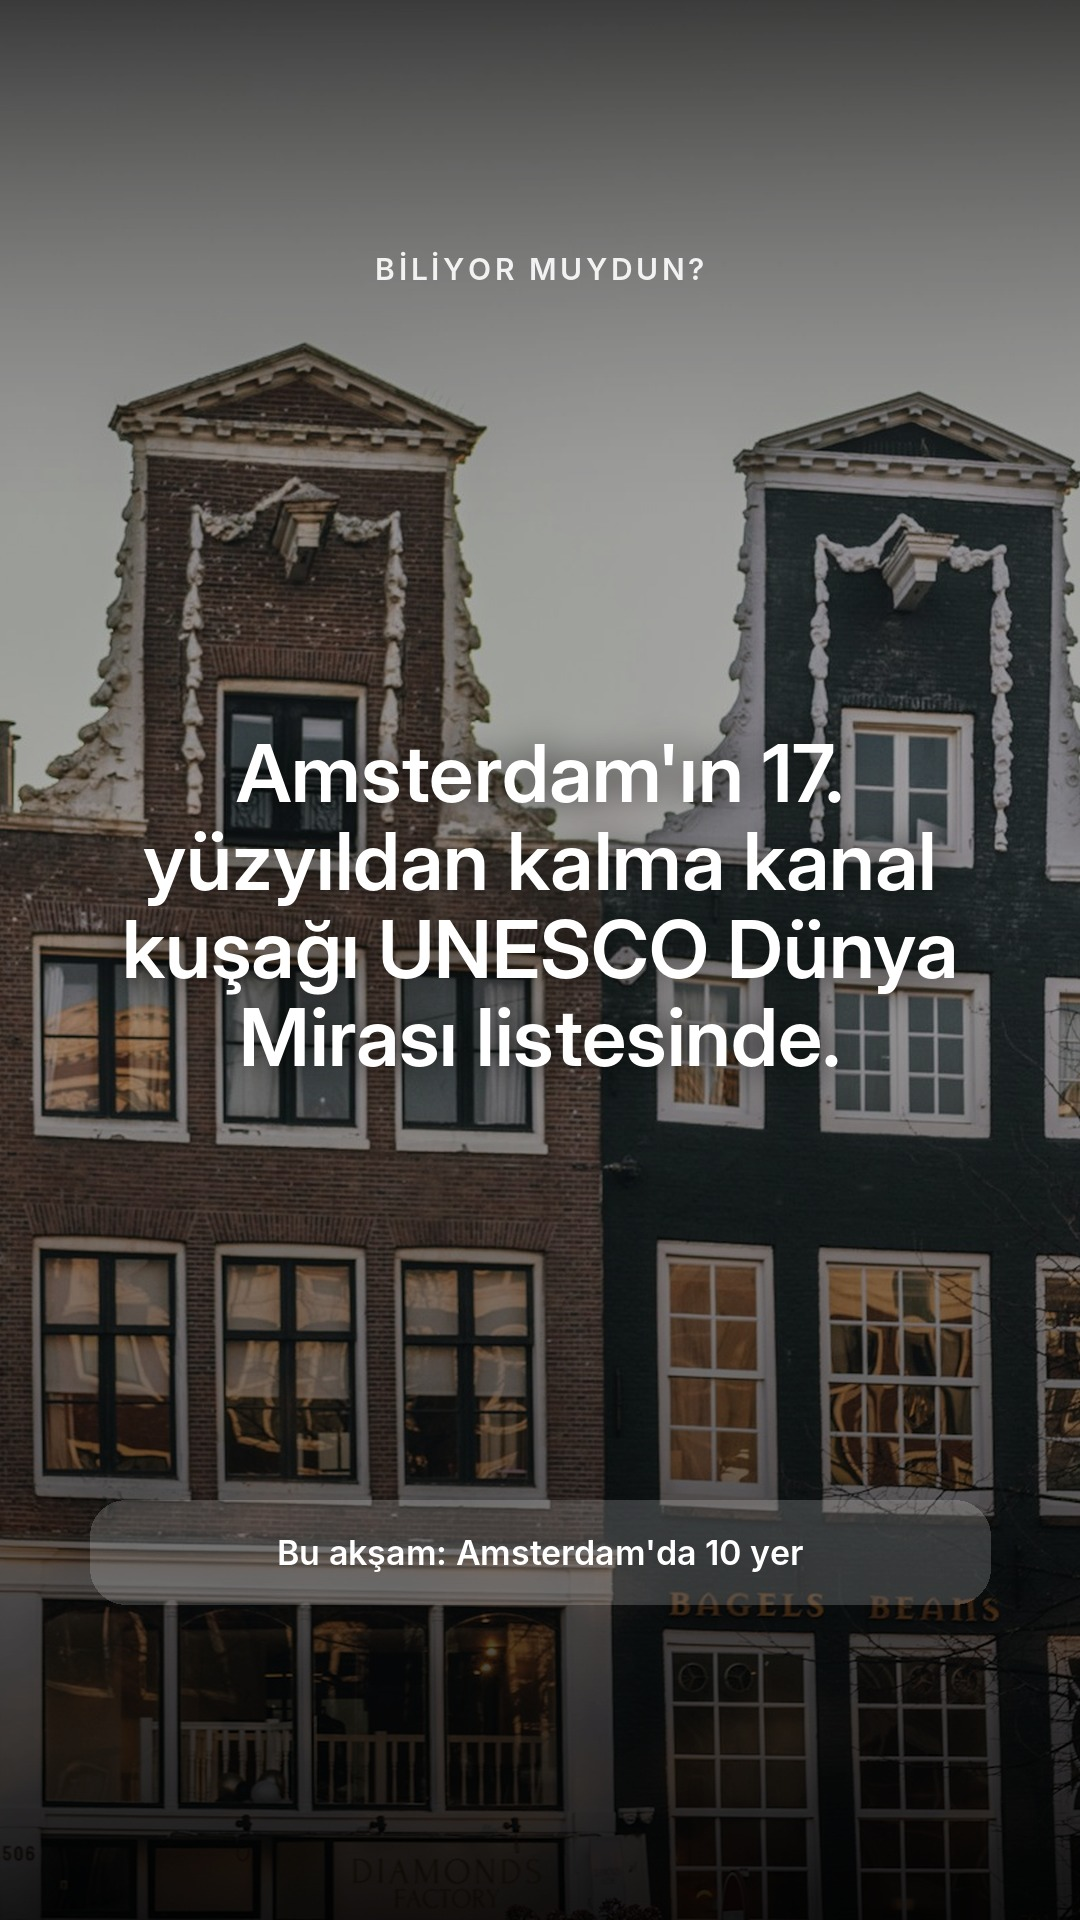
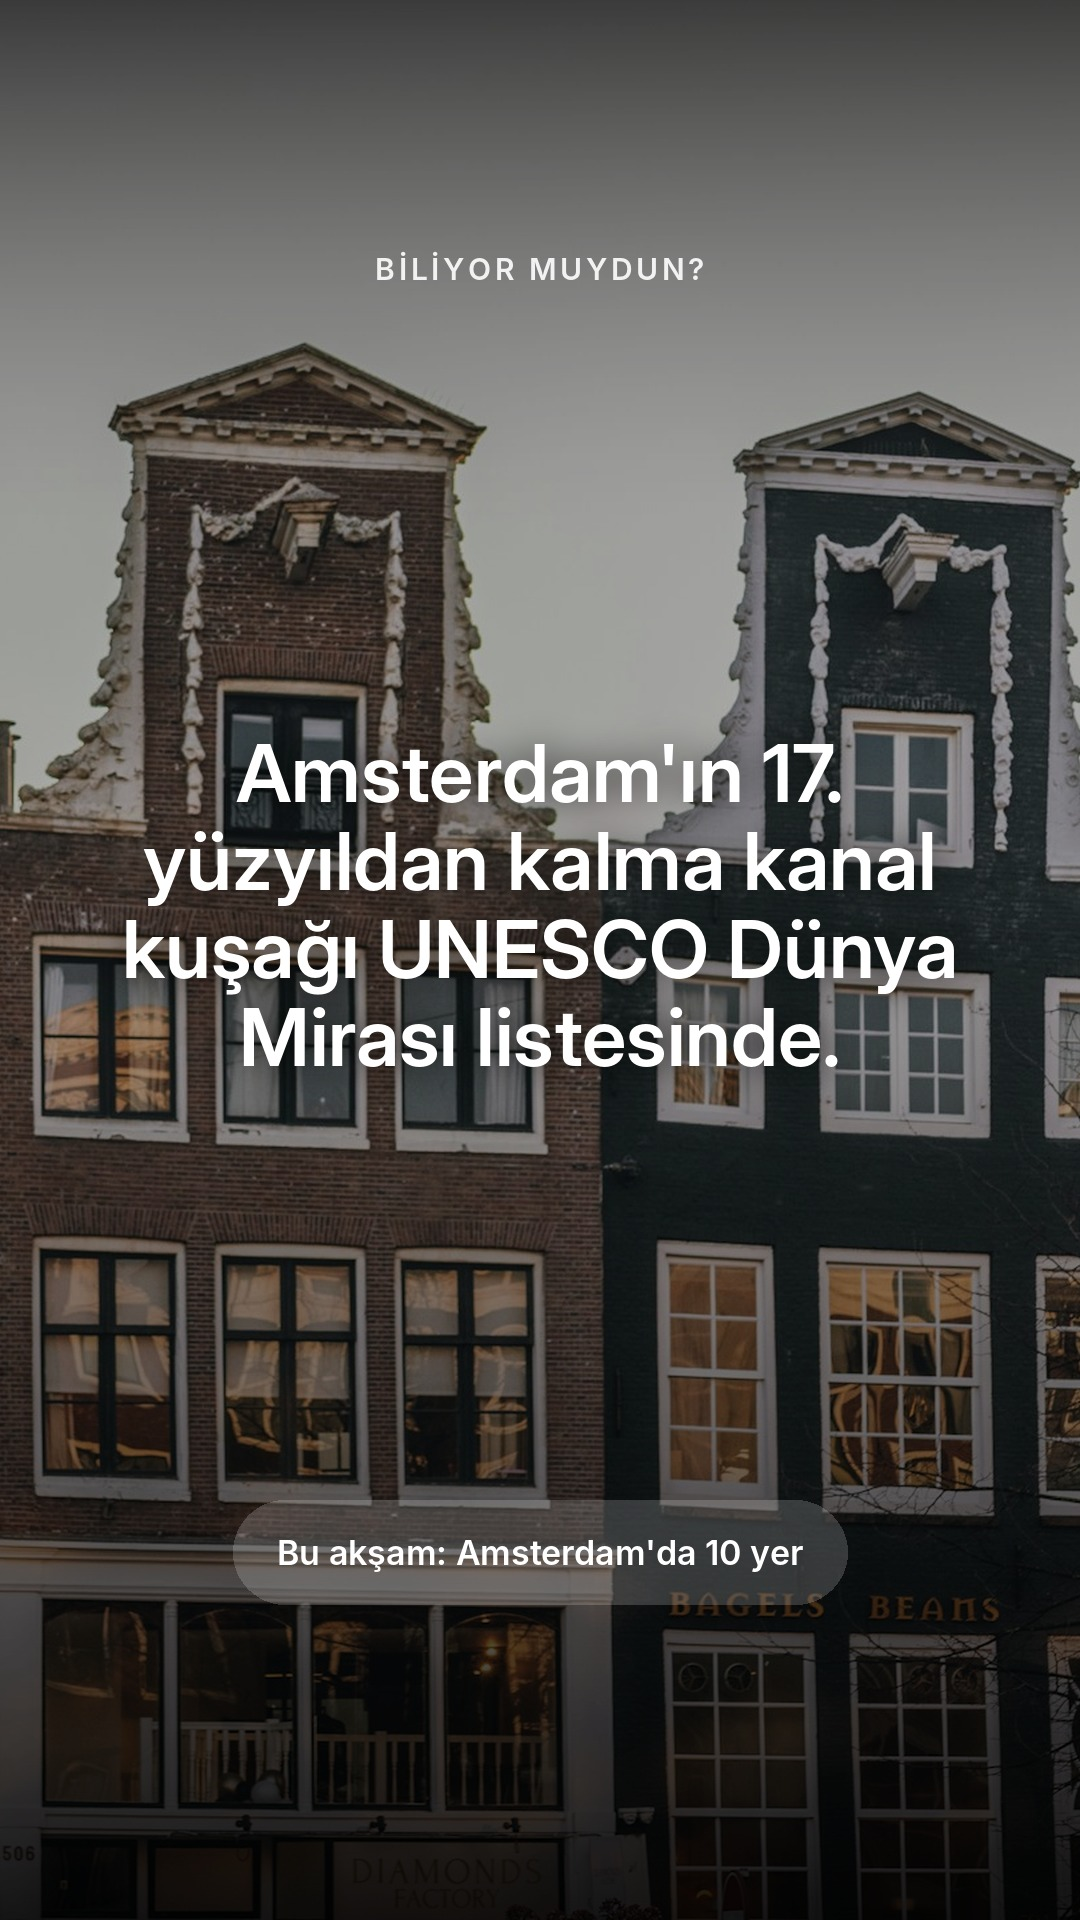
Öğlen hikayesi: 'Bu akşam' kutusu yazıyı saracak genişlikte
Claude-Session: https://claude.ai/code/session_01Vt7T2YAR3GeZPXrfLza46o

Changed region(s): [[0.0611, 0.7812, 0.2444, 0.8438], [0.7639, 0.7812, 0.9167, 0.8438]]

diff --git a/araclar/uret.py b/araclar/uret.py
@@ -296,7 +296,11 @@ def ogle_story(veri):
     af = font(ARA, 34)
     ah = blok_yuksekligi(alt, af, genislik - 80, 1.2)
     kutu_y = h - 420
-    ImageDraw.Draw(k).rounded_rectangle((kenar, kutu_y, w - kenar, kutu_y + ah + 64), radius=36, fill=(255, 255, 255, 46))
+    # kutu yazıyı sarsın: genişlik = en uzun satır + iç boşluk
+    d = ImageDraw.Draw(k)
+    tw = max(d.textlength(s, font=af) for s in satirlar(alt, af, genislik - 80))
+    kx0 = (w - tw) / 2 - 44
+    d.rounded_rectangle((kx0, kutu_y, w - kx0, kutu_y + ah + 64), radius=(ah + 64) // 2 if ah < 60 else 36, fill=(255, 255, 255, 46))
     yaz(k, (kenar + 40, kutu_y + 32), alt, af, BEYAZ, genislik - 80, 1.2, hiza="orta")
     return birlestir(img, k)
 
